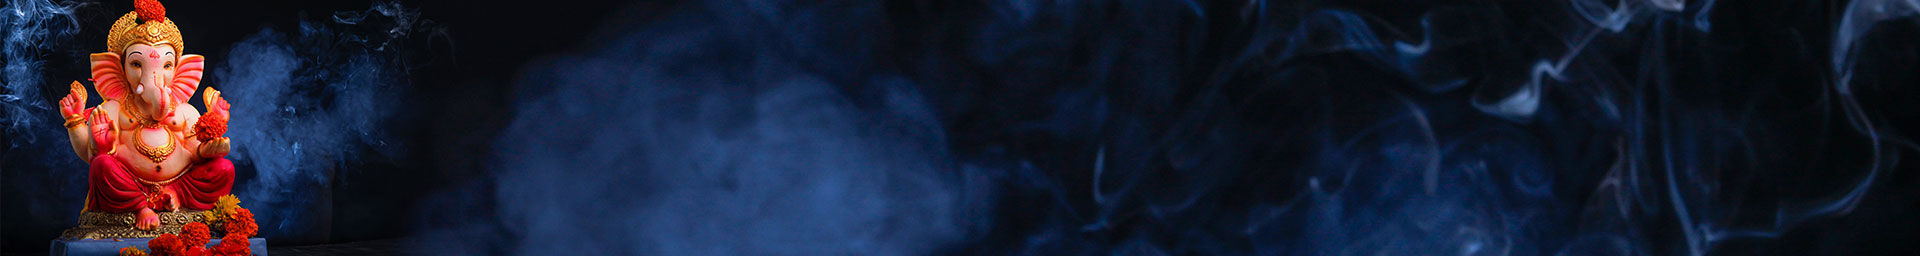
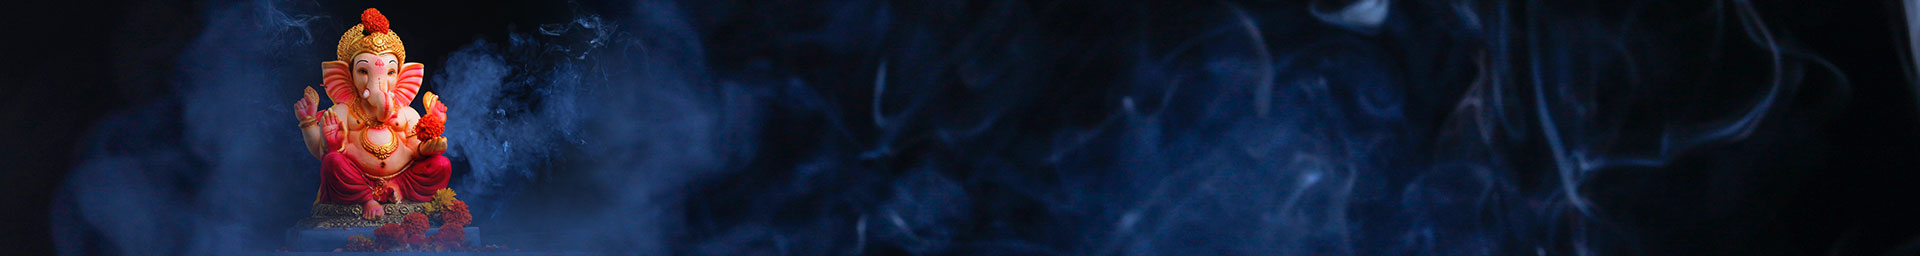
updated

diff --git a/styles.css b/styles.css
@@ -1337,7 +1337,7 @@ margin-bottom: 4rem;
    font-family: 'Ovo';  
   max-width: 50rem;
   text-align: left;
-  font-size: 1.5 rem;
+  font-size: 1rem;
   color:  #004721;
   z-index: 100;
   /* margin-bottom: 1.5rem; */
@@ -1347,7 +1347,7 @@ margin-bottom: 4rem;
     flex-direction: row;
     align-items: end;
     position: absolute;
-    right: 0;
+    right: 1.5rem;
     transform: translate(0%,0);
     top: 60%; 
    z-index: -1;
@@ -1370,6 +1370,17 @@ margin-bottom: 4rem;
  padding-top: 3rem;
 padding-bottom: 3rem;
     }
+    .sub-head1{
+      position: absolute;
+      right: 17rem;
+      top: 7.5rem;
+      text-align: right;
+     margin-top: .95rem;
+      /* margin-bottom: 2rem; */
+      font-family: 'Ovo';
+      font-size: 1rem;
+      color:  #004721;
+            }
     .wedding-invite{
       font-family: 'Pinyon Script', cursive; 
       color:  #004721;
@@ -1415,7 +1426,7 @@ animation-fill-mode: backwards;
       align-items: end;
       position: absolute;
       right: 0;
-      transform: translate(15%,0);
+      transform: translate(5%,0);
       top: 60%; 
      z-index: -1;
      margin-top: 2rem;
@@ -1480,7 +1491,7 @@ padding-bottom: 3rem;
           flex-direction: row;
           align-items: end;
           position: absolute;
-          right: 0;
+          right: 1.5rem;
           transform: translate(0%,0);
           top: 60%; 
          z-index: -1;
@@ -1531,13 +1542,24 @@ padding-bottom: 3rem;
               
          .part-five{
           position: relative;
-        height: 40rem; 
+        height: 22rem; 
           display: flex;
           flex-direction: row;
           background-image: url(images/party.jpg);
           background-size: cover;
           background-position: top;
           /* margin-bottom: 10px; */
+          }
+          .rsvp-by{
+            display: flex;
+            flex-direction: row;
+            position: absolute;
+            font-family: 'Ovo';
+            font-size: 1.3rem;
+            color: white;
+            left: 10%;
+            transform: translate(50%,0);
+            padding-top: .5rem;
           }
   
    .rsvp-section{
@@ -1582,7 +1604,7 @@ padding-bottom: 3rem;
   .test{
     margin-top: 1rem;
   /* background-color: #f6f6f6;  */
-  min-height: 10rem;
+  min-height: 15rem;
   position: relative;
   background-image: url(images/pinkgift3fixed.jpg);
   background-position: left;
@@ -2463,18 +2485,18 @@ transition: all .4s;
   /* Slide show ends here*/
   
   .part-two{
-    min-height: 50rem;
+    min-height: 45rem;
     display: flex;
     flex-direction: column;
     position: relative;
     width:80%;
-    padding-left: 3rem;
+    padding-left: 1rem;
     margin: 1rem auto; 
     background-color: #fffee0; 
     z-index: 100;
     filter: drop-shadow(5px 5px 5px rgba(0, 0, 0, 0.175));
     padding-top: 3rem;
-    padding-bottom: 3rem;
+    padding-bottom: 1rem;
     
     }
     .mehndi-invite{
@@ -2518,34 +2540,35 @@ transition: all .4s;
     font-size: 1 rem;
     color:  #004721;
     z-index: 100;
-    /* margin-bottom: 1.5rem; */
-    } 
+    /* margin-bottom: 3.5rem;  */
+    padding-right: 1rem;
+  } 
     .meh-img{
       display: flex;
       flex-direction: row;
       align-items: end;
       position: absolute;
       right: -1.5rem;
-      transform: translate(0,0);
-      top: 65%; 
+      transform: translate(-25%,0);
+      top: 62%; 
      z-index: -1;
      margin-top: 2rem;
-     width: 90%;
+     width: 80%;
       } 
       /*    The Wedding     */
   .part-three{
-    min-height: 54rem;
+    min-height: 45rem;
     display: flex;
     flex-direction: column;
     position: relative;
     width:80%;
-    padding-left: 3rem;
+    padding-left: 1rem;
     margin: 2rem auto;
     background-color: #fffee0; 
    height: auto;
    z-index: 100;
    filter: drop-shadow(.5rem .5rem .5rem rgba(0, 0, 0, 0.175));
-   padding-top: 3rem;
+   padding-top: .5rem;
   padding-bottom: 3rem;
       }
       .wedding-invite{
@@ -2557,7 +2580,17 @@ transition: all .4s;
       letter-spacing: .5rem;
       font-weight: 400;
        padding-right: 1.5rem; 
-      }
+      }.sub-head1{
+        position: absolute;
+        right: 10rem;
+        top: 7.8rem;
+        text-align: right;
+       margin-top: -2.5rem;
+        /* margin-bottom: 2rem; */
+        font-family: 'Ovo';
+        font-size: 1rem;
+        color:  #004721;
+              }
        
       .wedding-list li{
         color:  #004721; 
@@ -2593,28 +2626,28 @@ transition: all .4s;
         align-items: end;
         position: absolute;
         right: 0;
-        transform: translate(15%,0);
-        top: 60%; 
+        transform: translate(11%,0);
+        top: 55%; 
        z-index: -1;
        margin-top: 2rem;
-       width: 90%;
+       width: 80%;
        
        } 
   
       /*    The Reception     */
   .part-four{
-    min-height: 50rem;
+    min-height: 45rem;
     display: flex;
     flex-direction: column;
     position: relative;
     width:80%;
-    padding-left: 3rem;
+    padding-left: 1rem;
     margin: 2rem auto;
     background-color: #fffee0; 
     height: auto;
     filter: drop-shadow(.5rem .5rem .5rem rgba(0, 0, 0, 0.175));
     padding-top: 3rem;
-  padding-bottom: 3rem;
+  padding-bottom: 1rem;
    z-index: 100;
       }
       .reception-invite{
@@ -2659,11 +2692,11 @@ transition: all .4s;
             align-items: end;
             position: absolute;
             right: -1.5rem;
-            transform: translate(0%,0);
-            top: 60%; 
+            transform: translate(-22%,0);
+            top: 65%; 
            z-index: -1;
            margin-top: 2rem;
-           width: 90%;
+           width: 80%;
            }
            .btn:link,
            .btn:visited{
@@ -2727,6 +2760,17 @@ transition: all .4s;
       align-items:center;
       justify-content: center;
       color: white;
+      }
+      .rsvp-by{
+        display: flex;
+        flex-direction: row;
+        position: absolute;
+        font-family: 'Ovo';
+        font-size: 1.3rem;
+        color: white;
+        left: 34%;
+        transform: translate(-20%,0);
+        padding-top: .5rem;
       }
       .hotel{
         display: flex;
@@ -2812,6 +2856,34 @@ transition: all .4s;
       transform: scaleX(1.4) scaleY(1.6);
       opacity: 0;
   }
+  .part-six{
+    margin-top: 1.5rem;
+ display: flex;
+flex-direction: row;
+width: 100%;
+ background-image: url(images/wed-trad.jpg);
+  background-position: top;
+  background-size: cover;
+  height: 16rem;
+  position: relative;
+  }
+  .wed-trad{
+    display: flex;
+    flex-direction: column;
+    gap: 5rem;
+    /* min-height: 20rem; */
+    width: 100%;
+    align-items:center;
+    justify-content: center;
+    color: white;
+    letter-spacing: .5rem;
+}
+.wed-trad a{
+  text-decoration: none;
+  color:  #004721;
+  font-size:.8rem;
+  font-weight: 400;
+}
   
   /* .rsvp-section{
     display: flex;

diff --git a/index.html b/index.html
@@ -466,7 +466,7 @@
 </section>
 <section class=" part-six wed-traditions">
   <div class="wed-trad">
-    <div class="  lets-see  btn btn-link "><a href="traditions.html" target="_blank" rel="noopener noreferrer"> Indian wedding  traditions  </a>
+    <div class="  lets-see  btn btn-link "><a href="traditions.html" target="_blank" rel="noopener noreferrer"> Indian Wedding Traditions  </a>
     </div>
   </div>
   
